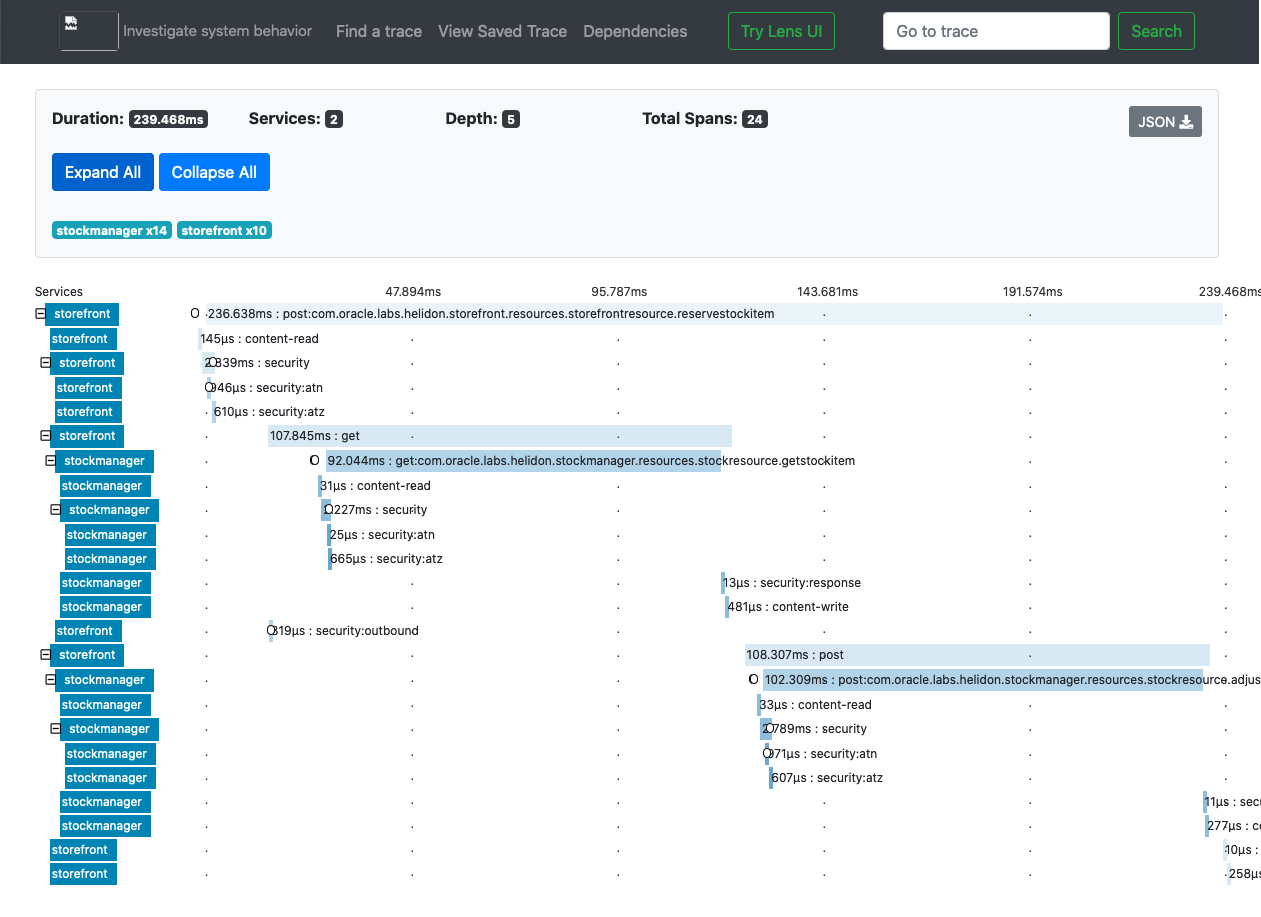
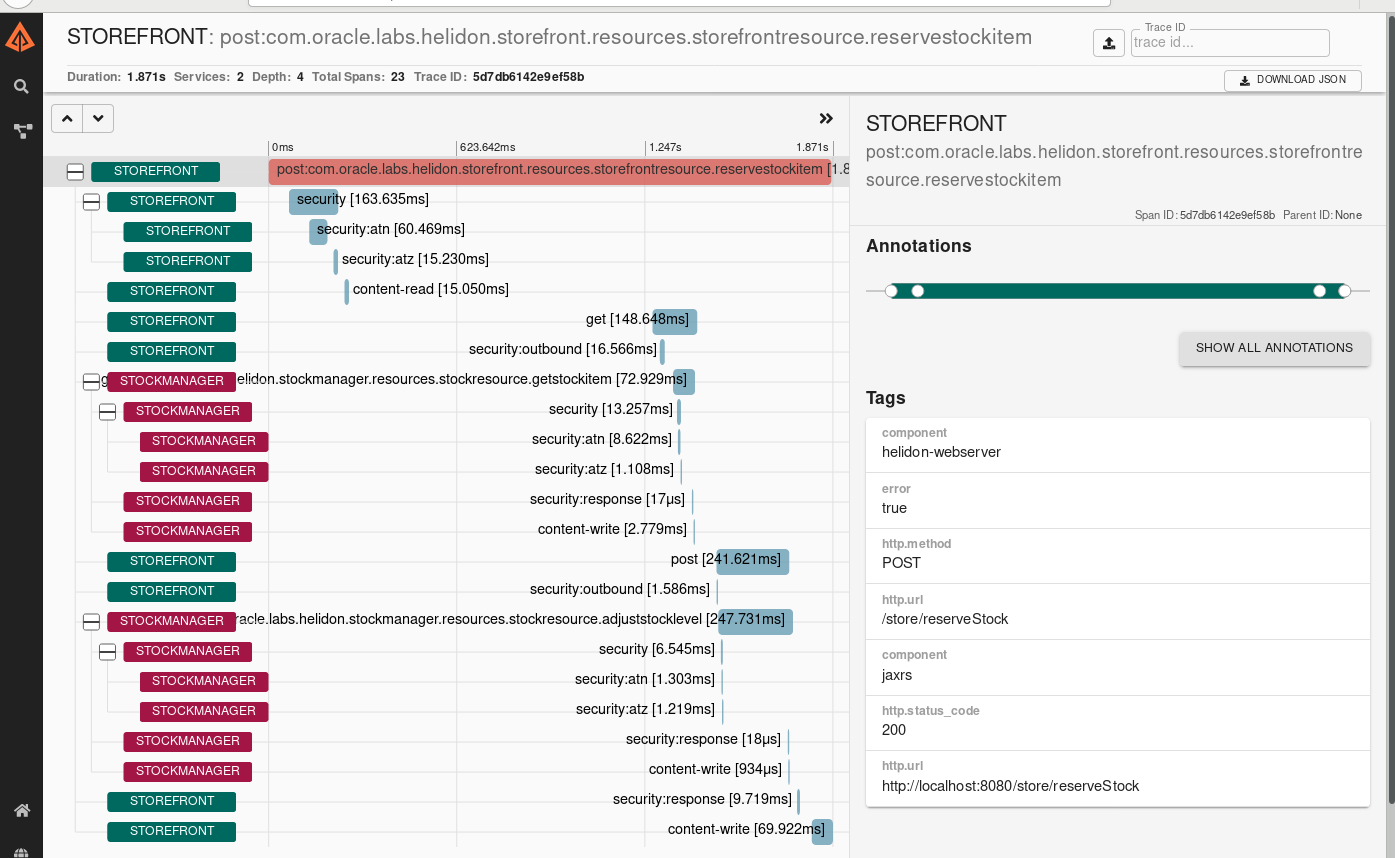
Finished the Helidon 2.0.2 run through

diff --git a/AppDev/helidon-k8s/Helidon/Helidon-Operations/helidon-operations.md b/AppDev/helidon-k8s/Helidon/Helidon-Operations/helidon-operations.md
@@ -57,7 +57,7 @@ Now you need to add the zipkin packages to the pom.xml file for **both** the sto
 
 For **both** the storefront and stockmanager projects open the pom.xml file, this is in the top level of the project, towards the end of the files for the project.
 
-Look for the dependency `helidon-tracing-zipkin` in **each** pom.xml file, you may want to use the search facility to look for zipkin. You will find a section that has been commented out and looks like the following
+Look for the dependency `helidon-tracing-zipkin` in **each** pom.xml file, you may want to use the search facility (Control-F) to look for zipkin, it will be towards the end of the dependencies section. You will find a section that has been commented out and looks like the following
 
 ```
 		<!-- tracing calls -->
@@ -117,7 +117,7 @@ You now need to tell Helidon what to call the tracing requests and where traces 
 ```
 HTTP/1.1 200 OK
 Content-Type: application/json
-Date: Mon, 6 Jan 2020 15:46:29 GMT
+Date: Mon, 28 Sept 2020 15:46:29 GMT
 connection: keep-alive
 content-length: 37
 
@@ -126,25 +126,46 @@ content-length: 37
 
 We've successfully reserved 7 pencils
 
-- Go to the **zipkin web page** and click find traces, you'll see the list of traces (the details you have will of course be different)
+- Go to the **zipkin web page** and click the `Run Query` button, you'll see the list of traces (the details you have will of course be different)
+
+![zipkin-trace-details-slow-response](images/zipkin-trace-list-slow-response.png)
+
+You can see that this took a while to run, nearly 8 seconds in fact. This is because of the lazy initialization in both the storefront and stock manager microservices.
+
+Let's see what happens once we've re-made the request.
+ - re-run the request
+   -  `curl -i -X POST -u jill:password -d '{"requestedItem":"Pencil", "requestedCount":7}' -H "Content-type:application/json" http://localhost:8080/store/reserveStock`
+
+```
+HTTP/1.1 200 OK
+Content-Type: application/json
+Date: Tue, 29 Sept 2020 17:33:00 GMT
+connection: keep-alive
+content-length: 37
+
+{"itemCount":136,"itemName":"Pencil"}
+```
 
 
+- Go to the **zipkin web page** and click the `Run Query` button
 
 ![zipkin-traces-list](images/zipkin-traces-list.png)
 
-Here you can see that is took 236.638ms doign storefront related parts of the request and only 102.309ms doing the stock manager parts of the request.
+We can see that this request was a lot faster at 1.8761 seconds
 
-If we click on the overall time (`239.468ms 27 spans` in this case, though your numbers will vary) zipkin will display the full details of our trace.
+If we click on the trace row zipkin will display the full details of our trace.
 
 ![zipkin-trace-details](images/zipkin-trace-details.png)
 
 Importantly even though they are in separate microservices and the flow switches between them several times we can see the overall flow, what part of the service was called when and how long it took. This let's developers understand exactly how the initial request was processed and how long each step took.
 
-I restarted both the storefront and stockmanager service, so the lazy initialization around the REST infrastructure and the database had not yet happened, then made the same request. This took a lot longer as the framework had to do it's on-demand initialization.
+For requests into the service (the first of these is the first entry in the trace and selected for you) we can see what the request details are, in the tags section to the right of the page , in this case an http POST to /store/reserveStock
 
-![zipkin-trace-details-slow-response](images/zipkin-trace-details-slow-response.png)
+- Click **once** on the text to the right of the first stock manager entry
 
-As you can see it took a long time for the stockmanager to perform it's initial action, but subsequent requests to the stockmanager were much faster. A developer may look at this trace and decide that it would be a good thing if the stockmanager took an action during it's initialization to setup the database connection, which would speed the first request up for users.
+![zipkin-trace-stockmanager-getstockitem](images/zipkin-trace-stockmanager-getstockitem.png)
+
+Now on the right we can see the details of this sub request, made from the storefront to the stockmanager. Feel free to further explore the zipkin UI if you wish, there's a lot if information available to help explore and diagnose problems.
 
 ### Metrics
 Tracking solutions like Zipkin can provide us with detail on how a single request is processed, but they are not going to be able to tell us how many requests were made, and what the distribution of requests per second is. This is the kind of thing that is needed by the operations team to understand how the microservice is being used, and where enhancements may be a good idea (especially where to focus development work for performance enhancements)
@@ -154,12 +175,12 @@ The pom.xml will need to be updated for the metrics, that's already been done fo
 - Go to the project **Storefront**, and navigate to folder **resources**
 - Open the file **StorefrontResources.java**.
 - Add the following annotation:
-  -  `@Counted(monotonic = true)`
+  -  `@Counted`
 
-```
+```java
 @Path("/store")
 @RequestScoped
-@Counted(monotonic = true)
+@Counted
 @Authenticated
 @Timeout(value = 15, unit = ChronoUnit.SECONDS)
 @Slf4j
@@ -170,11 +191,18 @@ public class StorefrontResource {
 <details><summary><b>Details on the annotation</b></summary>
 <p>
 
-The `monotonic=true` means that the counters will increment when the method is called, but will not decrement when it's exited. If you wanted to have a particular method report how many threads were currently in it (perhaps to determine when resource limits may be reached) you'd use `@Counted(monotonic=false)` which would decrement the counter when a thread left the method giving the number of threads in a method.
+The counter will increment each time the method is called, but will not decrement when it's exited. If you wanted to have a particular method report how many threads were currently in it (perhaps to determine when resource limits may be reached) you'd use `@ConcurrentGauge` which would decrement the counter when a thread left the method giving the number of threads in a method.
 
 A note on names, the default name for a counter is based on the class and method, that can be long (as we'll see in the output soon) but you can override the default name and for counters on *methods* you can specify a name for the counter E.g. `@Counted(names="MyListCounter")` This makes the output easier to understand, but do please chose a sensible name. You can also specify a description of the counter and help text if you like (examples of system generated versions are below)
 
 That's it, you don't need to do anything else, Helidon will automatically generate a set of counters for all of the requests it processes.
+
+</p></details>
+
+<details><summary><b>What's with all the metrics starting `application_ft` ?</b></summary>
+<p>
+
+In an earlier lab we setup a fall back on the listAllStock and reserveStock methods. The fault tolerance system will automatically create metrics to determine how often fault are encountered, time taken and so on.
 
 </p></details>
 
@@ -341,31 +369,35 @@ There are other types of metrics, for examples times.
 
 - Locate the method **listAllStock**
 
-- Add a timer and a meter annotation:
+- Add a counter, timer and a meter annotation:
 
-  - ```
+  - ```java
+  	@Counted(name = "stockReporting")
     @Timed(name = "listAllStockTimer")
     @Metered(name = "listAllStockMeter", absolute = true)
     ```
 
 Result:
 
-```
+```java
 	@GET
 	@Path("/stocklevel")
 	@Produces(MediaType.APPLICATION_JSON)
 	@Fallback(fallbackMethod = "failedListStockItem")
+  	@Counted(name = "stockReporting")
 	@Timed(name = "listAllStockTimer")
 	@Metered(name = "listAllStockMeter", absolute = true)
 	public Collection<ItemDetails> listAllStock() {
 ```
+
+Note that here we are naming our Counter, timer and metrics, we can do this as we are doing it on the method, This will make finding the details easier.
 
 The *absolute=true* on the meter means that the class name won't be prepended, it will just be called listAllStockMeter 
 
 
 
 - Now **restart** the **storefront** and make a few calls
--  `curl -i -X GET -u jill:password http://localhost:8080/store/stocklevel`
+-  `curl -i -X GET -u jill:password http://localhost:8081/store/stocklevel`
 
 ```
 HTTP/1.1 200 OK
@@ -404,7 +436,7 @@ application:list_all_stock_meter_fifteen_min_rate_per_second 0.00526411632294898
 ```
 
 ### Combining counters, metrics, times and so on
-You can have multiple annotations on your class / methods, but be careful that you don't get naming collisions, if you do your program will likely fail to start.
+You can have multiple annotations on your class / methods as you've just seen, but be careful that you don't get naming collisions, if you do your program will likely fail to start.
 
 By default any of `@Metric`, `@Timed`, `@Counted` etc. will use a name that's depending on the class / method name, it does **not** append the type of thing it's looking for. So if you had `@Counted` on the class and `@Timed` a class (or `@Counted` and `@Timed` on a particular method) then there would be a naming clash between the two of them. It's best to get into the habit of naming these, and putting the type in the name. Then you also get the additional benefit of being able to easily extract it using the metrics url like `http://localhost:9080/metrics/application/listAllStockMeter`
 

diff --git a/AppDev/helidon-k8s/Helidon/Helidon-cloud-native/helidon-cloud-native.md b/AppDev/helidon-k8s/Helidon/Helidon-cloud-native/helidon-cloud-native.md
@@ -20,12 +20,12 @@ This video is an introduction to the Helidon cloud native support lab. Once you'
 
 ---
 
-Most cloud native platforms (and Kubernetes in particular) need to know is a microservcies is running at all, if it's capable to responding to requests and if it has access to all the dependent services it needs to operate. In the event that these conditions are not fulfilled the cloud native platform will take steps like re-starting a microservice instance, or stopping sending it requests for a short while.
+Most cloud native platforms (and Kubernetes in particular) need to know if a microservices is running at all, if it's capable of responding to requests and if it has access to all the dependent services it needs to operate. In the event that these conditions are not fulfilled the cloud native platform will take steps like re-starting a microservice instance, or stopping sending it requests for a short while.
 
 The exercises in this section show how you can use Helidon to directly support the cloud native capabilities that Kubernetes uses. It does not directly cover using them in Kubernetes however, but if you're doing the microservices in kubernetes sections of the workshop then this will make sense when you do it.
 
 **Monitoring and metrics**
-Kubernetes does not itself have built in monitoring tools, however many users of Kubernetes use Prometheus which can use the /metrics API Helidon provides and we saw in the operations section of these labs to extract data on the operation and performance of a microservice.
+Kubernetes does not itself have built in monitoring tools, however many users of Kubernetes use Prometheus which can use the /metrics API Helidon provides and we saw in the operations section of these labs to extract data on the operation and performance of a microservice, then Grafana is used to visualise the metrics retrieved from Prometheus.
 
 ### Health
 Helidon has built in health info as standard. By default this is available on the same port as the service, but our runtime config (conf/storefront-network.yaml) separates these  onto different ports (8080 for the service, 9080 for the non service) 
@@ -54,7 +54,7 @@ Provding a Liveness capability is pretty simple. Somewhere in the class structur
 - Add an annotation to the class definition:
   -  `@Liveness`
 
-```
+```java
 
 @ApplicationScoped
 @Liveness
@@ -62,9 +62,9 @@ Provding a Liveness capability is pretty simple. Somewhere in the class structur
 public class LivenessChecker implements HealthCheck {
 ```
 
-Because this implements the HealthCheck interface it must provide a implementation of the call() method which returns a HealthCheckResponse.
+Because this implements the HealthCheck interface it must provide a implementation of the call() method which returns a HealthCheckResponse, this is at the end of the method. Please ignore the section of code that looks for a `/frozen` file, that is there to support exploring Liveness in the Kubernetes labs (and would not be in a production deployment !)
 
-```
+```java
 @Override
 	public HealthCheckResponse call() {
 	...
@@ -106,9 +106,11 @@ content-length: 574
 
 The health endpoint now includes the data we return from the Liveness check, in this case 
 
-```
+```json
 {"name":"storefront-live","state":"UP","status":"UP","data":{"frozen":false,"storename":"My Shop","uptime":3011}}
 ```
+
+There is of course a lot of other data that Kubernetes could use, for example to detect if a microservice instance was consuming to much memory.
 
 ### Readiness
 <details><summary><b>Intro on Readiness</b></summary>
@@ -132,7 +134,7 @@ Readiness is a way to let the microservices runtime determine if a service has e
 - Add the following annotation to the class ReadinessChecker
   -  `@Readiness`
 
-```
+```java
 @ApplicationScoped
 @Readiness
 @Slf4j
@@ -158,7 +160,7 @@ The readiness check is informing us that the service is ready and can process re
 
 Let's check that the service can indeed inform us of an issue - the backend storemanager not being available in this case :
 
-- On the **Eclipse console tab**, use the **Stop** button to stop the **stockmanager** process and stop it.
+- On the **Eclipse console tab**, switch to the **stockmanager** tab, then use the **Stop** button to stop the **stockmanager** process and stop it.
 
 Now let's make another readiness request to the storefront :
 
@@ -197,7 +199,10 @@ As the stockmanager is now up the storefront has it's dependencies satisfied and
 
 ### End of the lab
 You have finished all the labs in this initial section **A. Helidon**.  
-You can now start working on Section [B. Using Docker](../../Docker/DockerLabs.md)
+
+If you wich you can now do the [optional labs in the Helidon section](../Helidon-labs.md)
+ 
+If you don;t want to do those labs then if you are doing the full set of labs you can now start working on Section [B. Using Docker](../../Docker/DockerLabs.md)
 
 
 

diff --git a/AppDev/helidon-k8s/Helidon/Helidon-open-api/helidon-open-api.md b/AppDev/helidon-k8s/Helidon/Helidon-open-api/helidon-open-api.md
@@ -52,6 +52,8 @@ There are two ways to identify the annotations in your code:
 In general the costs of building and storing an index are way smaller than those of scanning each time, and this is the approach that Helidon uses when packaging a service, though when running within Eclipse it does a scan as otherwise you'd have to build the index each time you saved a file which would slow down the development process (This is why you may see warning messages about missing jandex.idx files when running the micro-servcies in Eclipse)
 
 To build the index Heldion uses a tool called jandex (Java ANnotaiton inDEXer) to build the index, This is done for you automatically when you package a service, but the OpenAPI code for some reason only seems to search the jandex index file, and not scan the code. This is why you will be running the maven build target process-classes later on.
+
+Because running JANDEX can take a lot of time (relatively speaking) you don't want to run it each time you make a change to a source code file in Eclipse, so it needs to be specifically run to generate the index when operating in Eclipse. We will shortly see how that is done.
 </p></details>
 
 ---
@@ -106,7 +108,7 @@ The title, description and version fields are I hope self explanatory
 ### Creating the index
 Before we can see the updates to the OpenAPI spec we need to build an index of the annotations
 
-Unlike the server processing annotations the OpenAPI processing only operates against a jandex index, and won't scan for OpenAPI annotations in the class files (in Helidon 1.4.3 at least, I'm not sure if this is a bug or a feature)
+Unlike the server processing annotations the OpenAPI processing only operates against a jandex index, and won't scan for OpenAPI annotations in the class files (I'm not sure if this is a bug or a feature)
 
 Because of this the jandex index needs to be built to reflect the OpenAPI annotations. To do this you can manually run maven in Eclispe with the process-classes goal.
 
@@ -132,7 +134,9 @@ Now to run a build with this target.
 
 ![](images/run-as-maven-build.png)
 
-In the resulting popup window chose the process-classes option
+Depending on the precise eclispe configuration there **may** be a resulting popup window, do not worry if this is not displayed and the build just continues
+
+- If there is a popup then chose the process-classes option.
 
 ![](images/maven-build-run-configurations.png)
 
@@ -175,22 +179,17 @@ In the console tab you'll see output similar to the following
 
 Note that the version numbers may differ.
 
+Towards the end of the output you can see that the Maven jandex plugin is run.
+
 ### Viewing the initial OpenAPI spec
 Now we've added an annotation covering the initial contents let's look at it. You must have created the jandex index as described above and stopped any existing instances (there is no need to have the stockmanager running, but if it already is don't worry)
 
 - Start the storefront service running using the Main class as before, this will cause the jandex.idx file to be read.
 
 - In a terminal window type 
-    - `curl -i http://localhost:8080/openapi`
+    - `curl  http://localhost:8080/openapi`
 
 ```yaml
-HTTP/1.1 200 OK
-Content-Type: application/vnd.oai.openapi;charset=UTF-8
-Date: Wed, 11 Mar 2020 17:18:56 GMT
-connection: keep-alive
-content-length: 1912
-
-
 components: 
   schemas:
     ItemDetails: 
@@ -561,7 +560,7 @@ This has given us the entire API, but the /status is probably not relevant to ex
  
 (It's the last line, so it may be a bit hidden)
  
-This tells Helidon to ignore any paths it fined in the StatusResource and ConfigurationResource classes when generating the Open API document.
+This tells Helidon to ignore any paths it finds in the StatusResource and ConfigurationResource classes when generating the Open API document.
 
 <details><summary><b>Other configuration settings for OpenAPI</b></summary>
 The Helidon runtime supports a large number of configuration settings that can be used to control the generation of the OpenAPI document, this include the ability to packages as well as classes to include / exclude, or if you need finer grained control you can even define filter and model classes that chose exactly which paths will be included or removed. 
